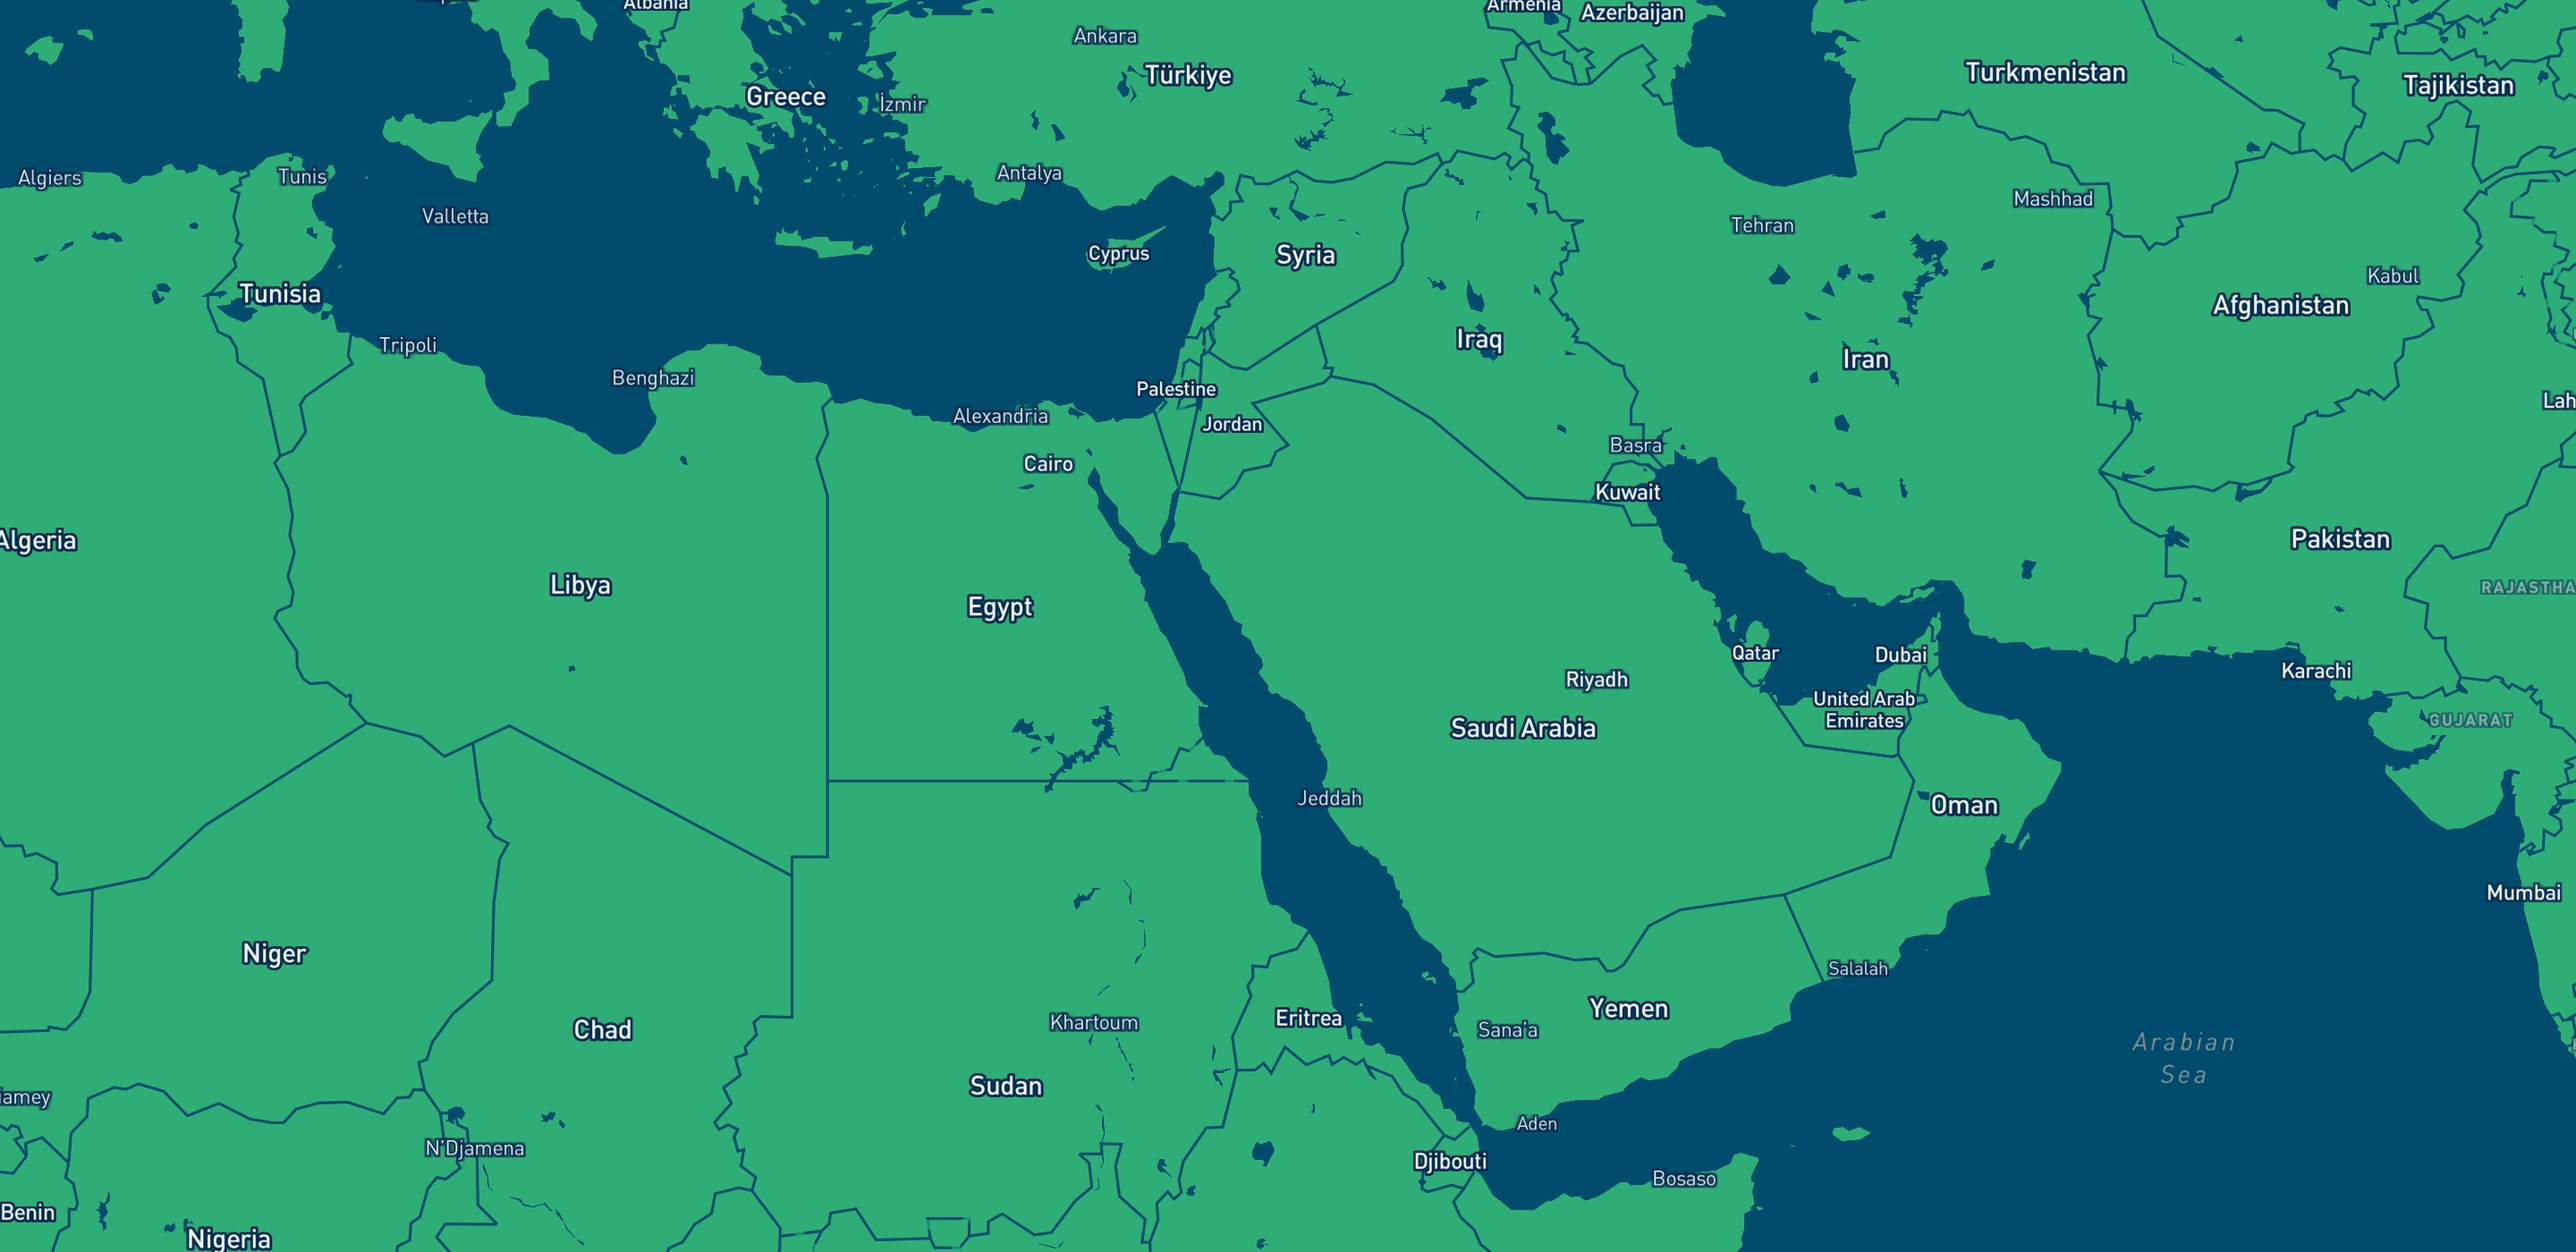
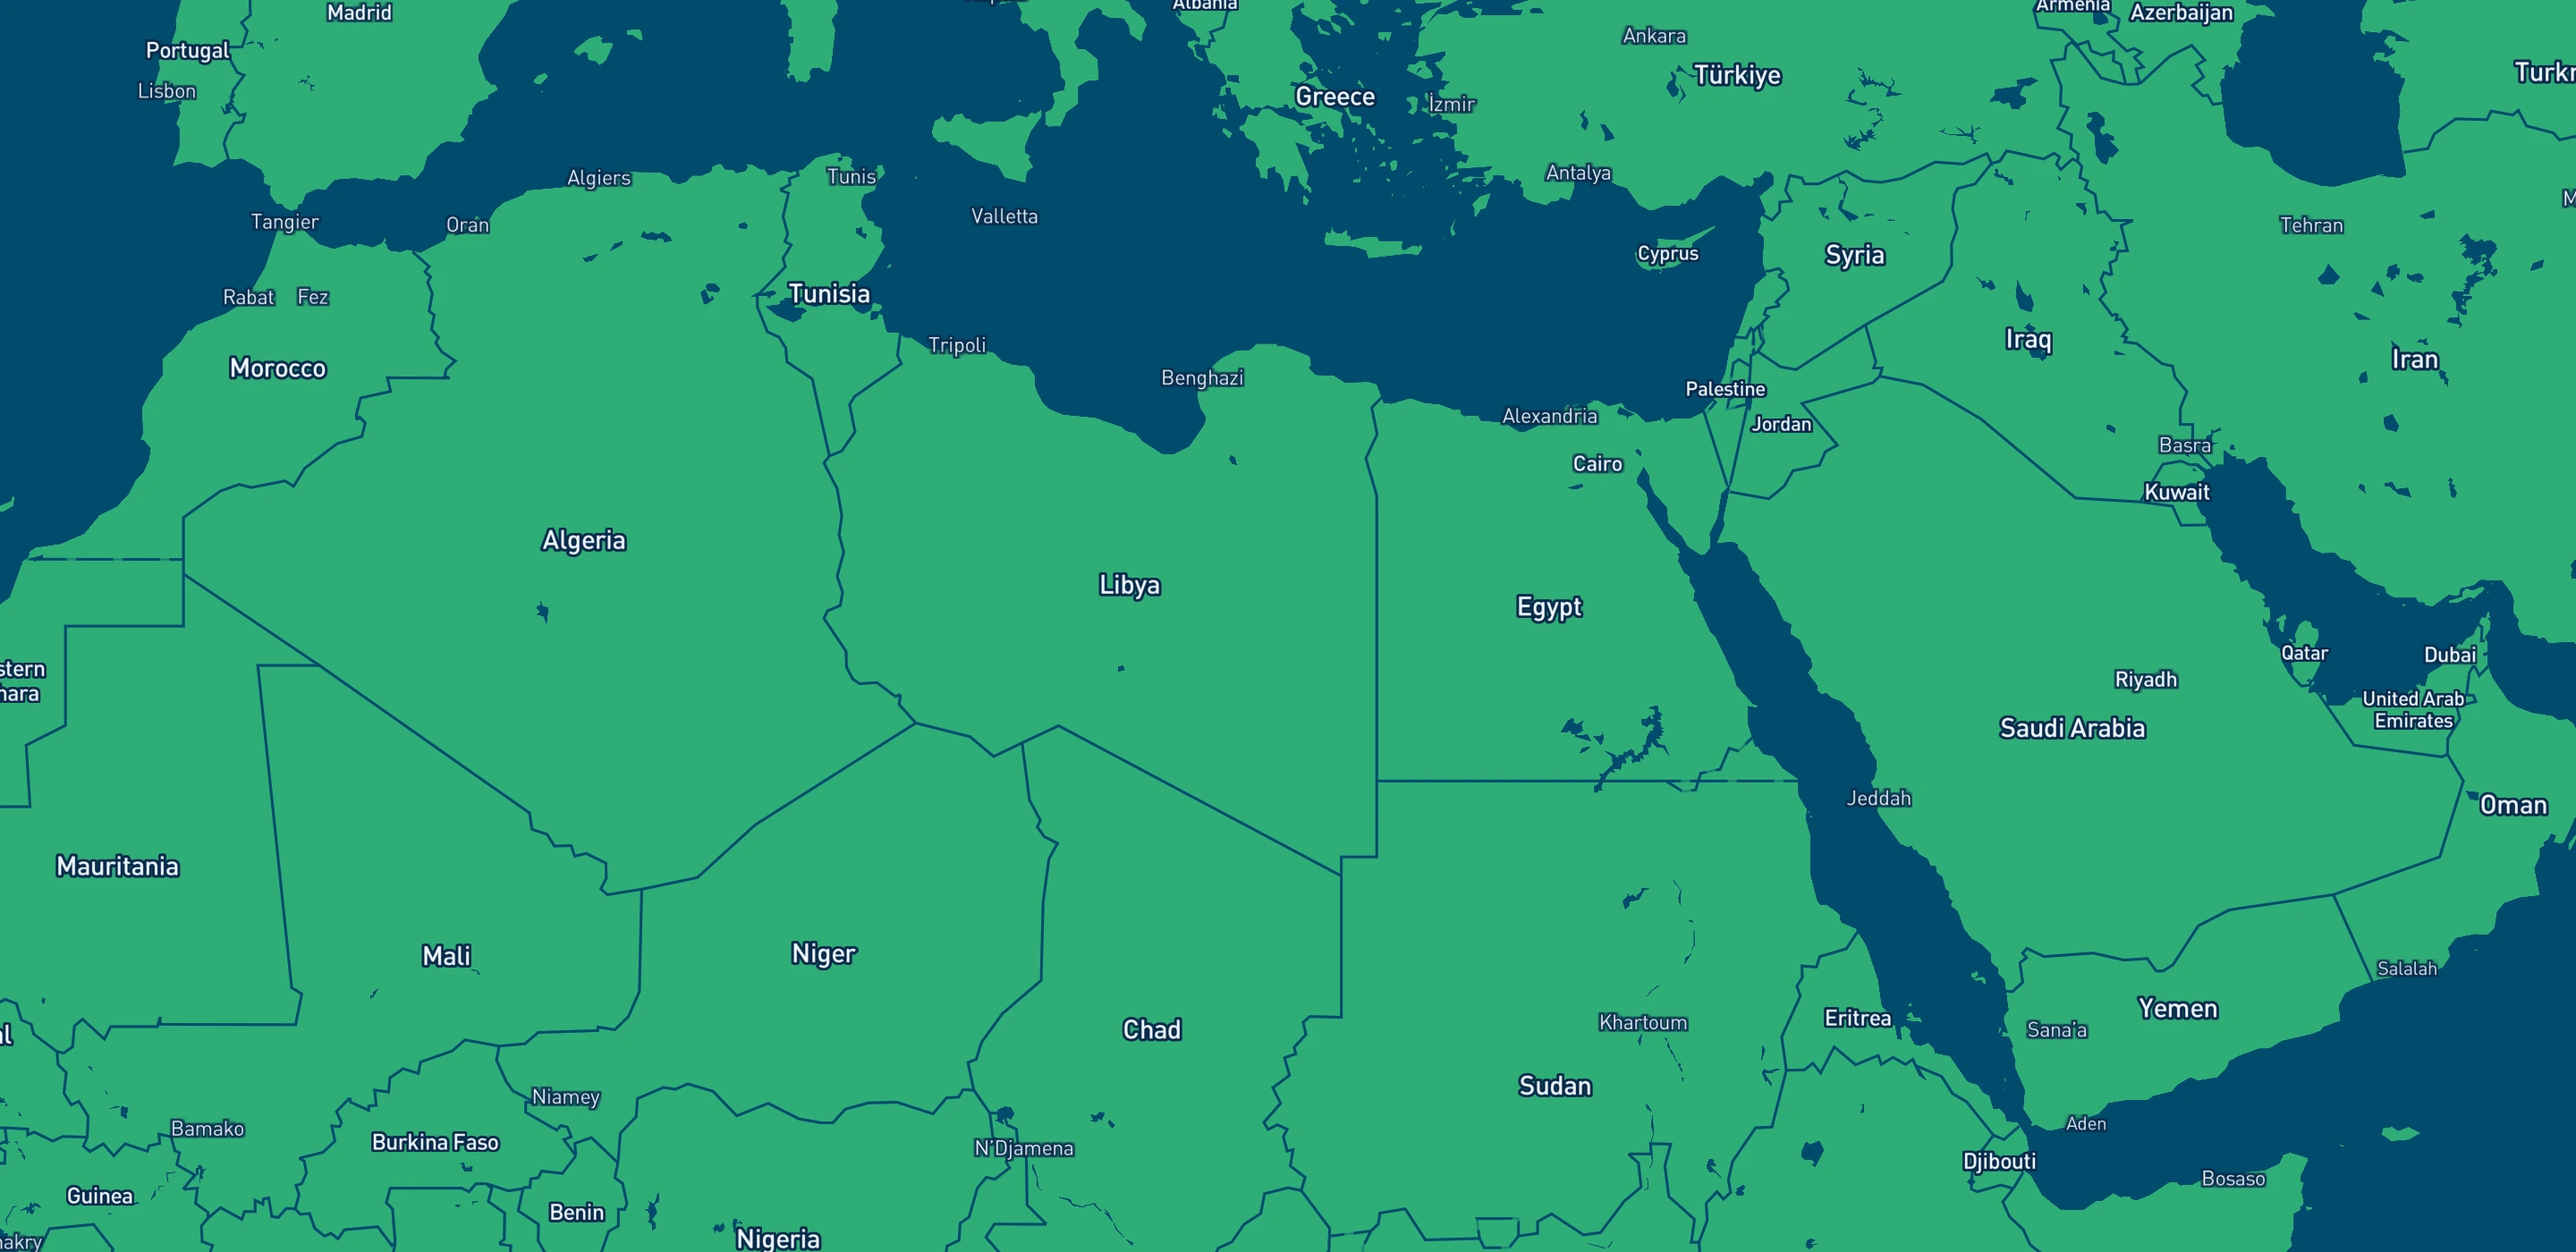
fix(map): west-shifted center, solid glowing city dots, slower traveling lines, and complete mobile Arab world view

diff --git a/src/features/main/components/ArabWorldMapSVG.jsx b/src/features/main/components/ArabWorldMapSVG.jsx
@@ -37,8 +37,8 @@ function project(lng, lat, centerLng, centerLat, zoom, viewW, viewH) {
 }
 
 // ─── Map configs (must match the screenshots) ──────────────────────────────────
-const DESKTOP = { centerLng: 38.0, centerLat: 26.0, zoom: 3.8, w: 1440, h: 700 };
-const MOBILE  = { centerLng: 36.0, centerLat: 27.0, zoom: 3.3, w: 390,  h: 700 };
+const DESKTOP = { centerLng: 22.5, centerLat: 26.0, zoom: 3.8, w: 1440, h: 700 };
+const MOBILE  = { centerLng: 21.5, centerLat: 23.0, zoom: 1.85, w: 390,  h: 240 };
 
 // ─── Cities ────────────────────────────────────────────────────────────────────
 const CITIES = [
@@ -106,64 +106,97 @@ function MapOverlay({ cfg, lang, id }) {
       aria-hidden="true"
     >
       <defs>
-        {/* One keyframe animation per city (staggered delays) */}
+        {/* Glow filter matching original 0 0 12px rgba(77, 255, 130, 0.8) */}
+        <filter id={`cityGlow-${id}`} x="-100%" y="-100%" width="300%" height="300%">
+          <feDropShadow dx="0" dy="0" stdDeviation="5" floodColor="#4dff82" floodOpacity="0.8" />
+        </filter>
+
         <style>{`
-          @keyframes mapPulse {
-            0%   { r: 4px;  opacity: 0.9; }
-            100% { r: 20px; opacity: 0;   }
+          @keyframes dashMove {
+            to {
+              stroke-dashoffset: -44;
+            }
+          }
+          @keyframes originalRingPulse {
+            0% {
+              r: 5px;
+              opacity: 0.8;
+            }
+            100% {
+              r: 18px;
+              opacity: 0;
+            }
+          }
+          .network-traveling-line {
+            stroke: #4dff82;
+            stroke-width: 1.5;
+            stroke-opacity: 0.45;
+            stroke-dasharray: 12 10;
+            animation: dashMove 3.2s linear infinite;
           }
         `}</style>
       </defs>
 
-      {/* Connection lines */}
+      {/* Connection lines with traveling dashes */}
       {CONNECTIONS.map(([i, j], k) => {
         const a = pts[i].pos;
         const b = pts[j].pos;
         return (
           <line
             key={k}
-            x1={a[0]} y1={a[1]}
-            x2={b[0]} y2={b[1]}
-            stroke="#4dff82"
-            strokeWidth="0.8"
-            strokeOpacity="0.3"
+            className="network-traveling-line"
+            x1={a[0]}
+            y1={a[1]}
+            x2={b[0]}
+            y2={b[1]}
           />
         );
       })}
 
-      {/* City markers */}
+      {/* City markers - solid glowing dots and pulsing rings */}
       {pts.map((city, i) => {
         const [cx, cy] = city.pos;
-        const delay = `${(i * 0.35) % 2.5}s`;
+        const delay = `${(i * 0.25) % 2.0}s`;
 
         return (
           <g key={city.id}>
-            {/* Pulse ring */}
+            {/* Outer expanding pulsing ring */}
             <circle
-              cx={cx} cy={cy}
-              r="4"
+              cx={cx}
+              cy={cy}
+              r="6"
               fill="none"
               stroke="#4dff82"
               strokeWidth="1.5"
             >
               <animate
                 attributeName="r"
-                from="4" to="20"
-                dur="2.2s"
+                from="6"
+                to="20"
+                dur="2s"
                 begin={delay}
                 repeatCount="indefinite"
               />
               <animate
                 attributeName="opacity"
-                from="0.8" to="0"
-                dur="2.2s"
+                from="0.7"
+                to="0"
+                dur="2s"
                 begin={delay}
                 repeatCount="indefinite"
               />
             </circle>
 
-            {/* Core dot */}
-            <circle cx={cx} cy={cy} r="4" fill="#4dff82" />
+            {/* Glowing solid white core */}
+            <circle
+              cx={cx}
+              cy={cy}
+              r="5.5"
+              fill="#FFFFFF"
+              stroke="#2FAD78"
+              strokeWidth="2"
+              filter={`url(#cityGlow-${id})`}
+            />
           </g>
         );
       })}
